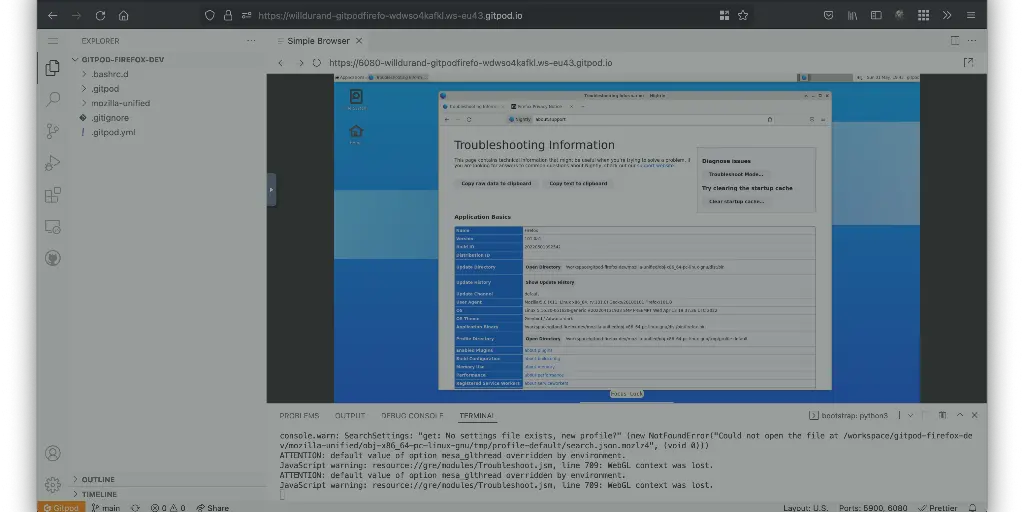
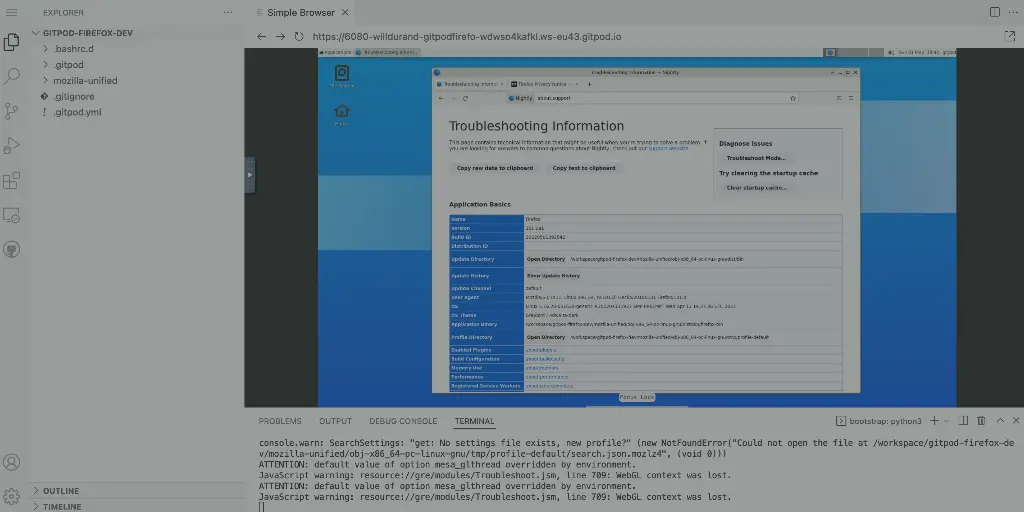
update social image (again)

diff --git a/_posts/2022-05-03-developing-firefox-in-firefox-with-gitpod.md b/_posts/2022-05-03-developing-firefox-in-firefox-with-gitpod.md
@@ -2,7 +2,7 @@
 layout: post
 title: "Developing Firefox in Firefox with Gitpod"
 location: "Freiburg, Germany"
-image: /images/posts/2022/05/gitpod-firefox-social.webp?v=2
+image: /images/posts/2022/05/gitpod-firefox-social.webp?v=3
 tags: [mozilla]
 ---
 
